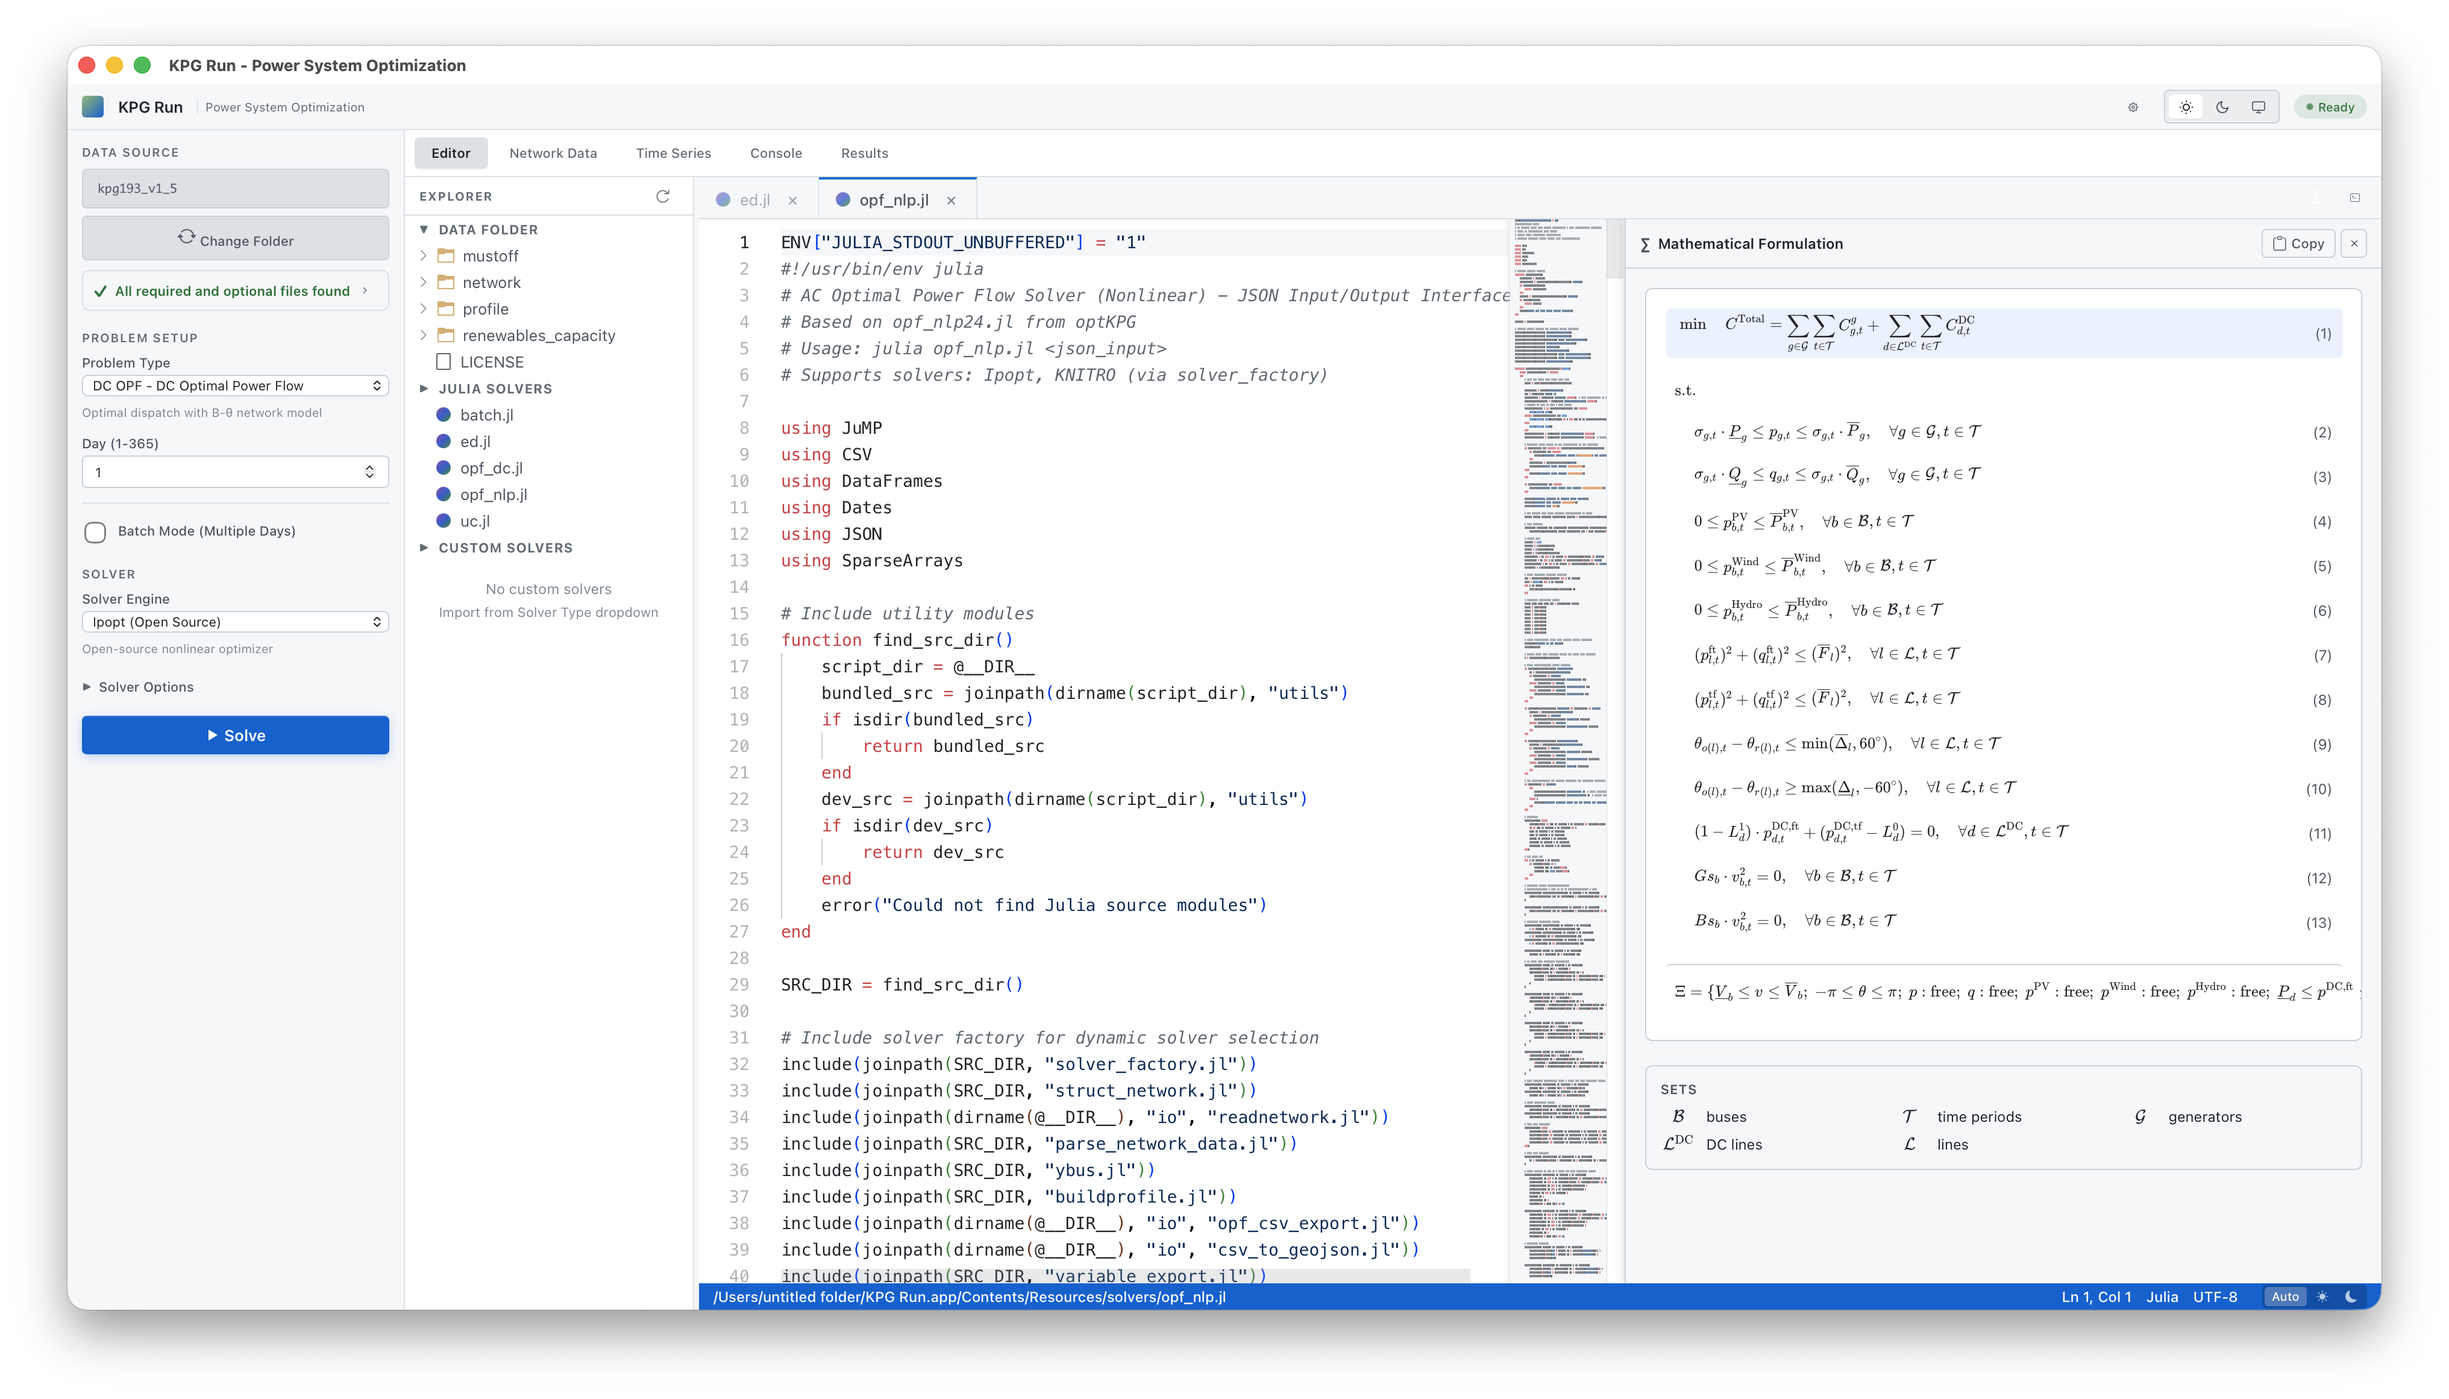
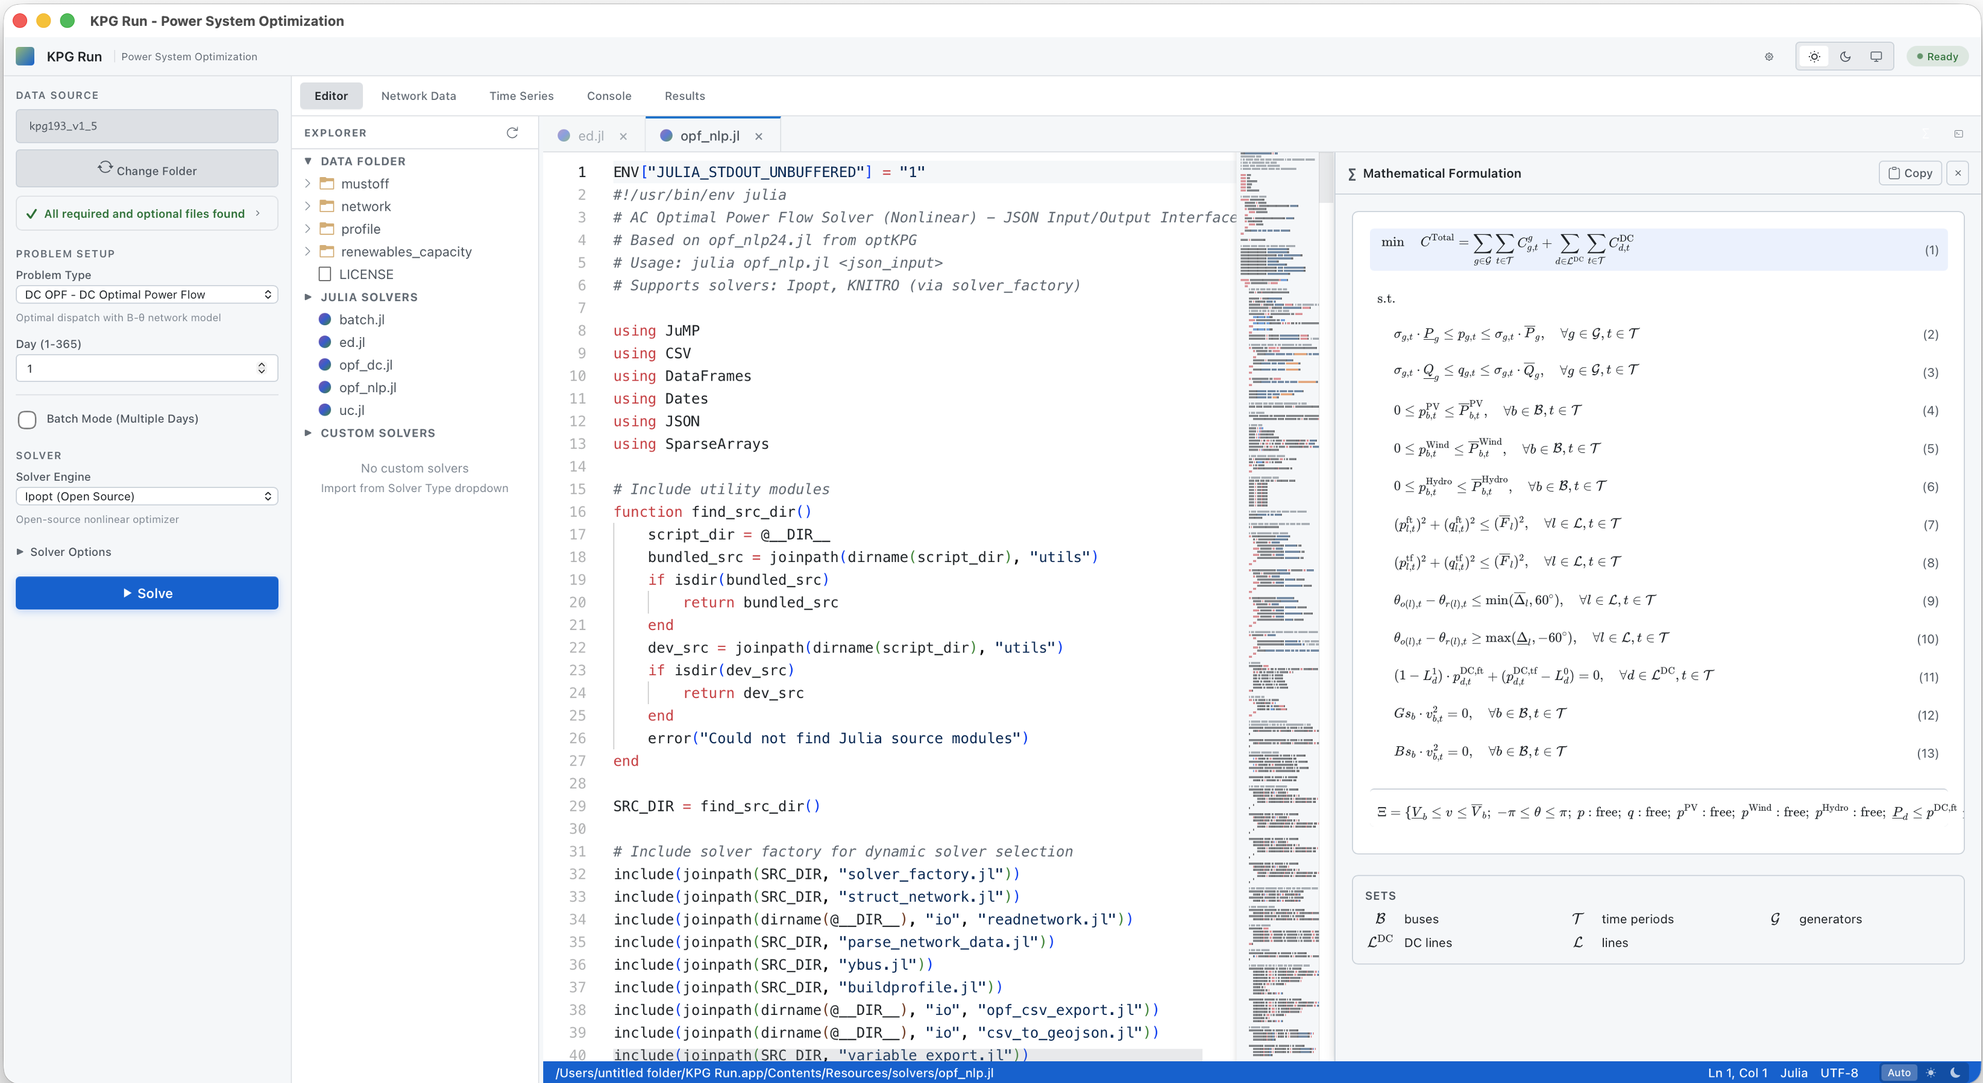
Deploy: Update KPG Run and KPG View app screenshots
- Update KPG Run application screenshot
- Update KPG View application screenshot agm-center/agm-docs-source@26ca7a668a14ac3dddff2568871409d80a2e79a8

diff --git a/learning/open-ego-101/index.html b/learning/open-ego-101/index.html
@@ -27,7 +27,7 @@ Documentation
 </a> </div> </div> </nav>  <script type="module">const e=document.getElementById("mobile-menu-btn"),n=document.getElementById("mobile-menu");e?.addEventListener("click",()=>{n?.classList.toggle("hidden")});</script> </div> <main class="max-w-none"> 
 <section class="relative w-full min-h-[600px] md:min-h-[700px] flex items-center justify-center overflow-hidden ">   <div class="absolute inset-0 z-0"> <img src="https://eoimages.gsfc.nasa.gov/images/imagerecords/83000/83182/ISS038-E-038300_lrg.jpg" alt="Korean Power Grid at Night" class="w-full h-full object-cover object-center animate-fade-in"> <!-- Dark overlay for text readability --> <div class="absolute inset-0 bg-black/60"></div> <!-- Image Credit --> <div class="absolute bottom-1 right-2 text-white/40 text-[10px]"> Image: NASA Earth Observatory </div> </div>  <!-- Content --> <div class="relative z-10 w-full max-w-5xl mx-auto px-6 py-24 md:py-32"> <div class="text-left"> <!-- Title --> <h1 class="text-4xl md:text-5xl lg:text-6xl font-bold mb-6 text-white animate-slide-up opacity-0" style="animation-delay: 0.2s; animation-fill-mode: forwards;"> KPG Platform 101 </h1> <!-- Subtitle --> <p class="text-lg md:text-xl text-white/95 max-w-3xl  leading-relaxed mb-8 animate-slide-up opacity-0" style="animation-delay: 0.4s; animation-fill-mode: forwards;"> Getting started with the KPG Platform framework for power system optimization, installation, and basic workflows. </p> <!-- CTA Button (only shown in background mode) --> <div class="mt-8 animate-slide-up opacity-0" style="animation-delay: 0.6s; animation-fill-mode: forwards;"> <a href="/learning" class="inline-block bg-brand-primary hover:bg-brand-primary-dark text-white font-semibold px-8 py-3.5 rounded shadow-lg hover:shadow-xl hover:scale-105 transition-all duration-300 ease-out"> Back to Learning Hub </a> </div> </div> </div> </section>
 
-<section class="bg-white py-12 px-6"><div class="max-w-5xl mx-auto"><div class="mb-8"><div class="pdf-viewer astro-5wsafjel" data-viewer="pdf-mwthlsq24" data-total-pages="18"> <!-- Compact Header --> <div class="pdf-header astro-5wsafjel"> <button class="nav-btn prev-btn astro-5wsafjel" title="Previous slide (←)" data-action="prev"> <svg width="14" height="14" viewBox="0 0 24 24" fill="none" stroke="currentColor" stroke-width="2.5" stroke-linecap="round" stroke-linejoin="round" class="astro-5wsafjel"> <polyline points="15 18 9 12 15 6" class="astro-5wsafjel"></polyline> </svg> </button> <span class="page-info astro-5wsafjel"> <span class="current-page astro-5wsafjel">1</span> / 18 </span> <button class="nav-btn next-btn astro-5wsafjel" title="Next slide (→)" data-action="next"> <svg width="14" height="14" viewBox="0 0 24 24" fill="none" stroke="currentColor" stroke-width="2.5" stroke-linecap="round" stroke-linejoin="round" class="astro-5wsafjel"> <polyline points="9 18 15 12 9 6" class="astro-5wsafjel"></polyline> </svg> </button> <div class="spacer astro-5wsafjel"></div> <a href="/slides/2025-10-30_AGM Center (Jip Kim).pdf" download class="icon-btn astro-5wsafjel" title="Download"> <svg width="16" height="16" viewBox="0 0 24 24" fill="none" stroke="currentColor" stroke-width="2" stroke-linecap="round" stroke-linejoin="round" class="astro-5wsafjel"> <path d="M21 15v4a2 2 0 0 1-2 2H5a2 2 0 0 1-2-2v-4" class="astro-5wsafjel"></path> <polyline points="7 10 12 15 17 10" class="astro-5wsafjel"></polyline> <line x1="12" y1="15" x2="12" y2="3" class="astro-5wsafjel"></line> </svg> </a> <a href="/slides/2025-10-30_AGM Center (Jip Kim).pdf" target="_blank" class="icon-btn astro-5wsafjel" title="Full screen"> <svg width="16" height="16" viewBox="0 0 24 24" fill="none" stroke="currentColor" stroke-width="2" stroke-linecap="round" stroke-linejoin="round" class="astro-5wsafjel"> <path d="M8 3H5a2 2 0 0 0-2 2v3m18 0V5a2 2 0 0 0-2-2h-3m0 18h3a2 2 0 0 0 2-2v-3M3 16v3a2 2 0 0 0 2 2h3" class="astro-5wsafjel"></path> </svg> </a> </div> <!-- PDF Container --> <div class="pdf-container astro-5wsafjel" style="height: 700px"> <iframe src="/slides/2025-10-30_AGM Center (Jip Kim).pdf#page=1&#38;pagemode=none&#38;view=Fit" title="KPG Platform 101 Tutorial Slides" class="pdf-frame astro-5wsafjel" loading="lazy" data-src="/slides/2025-10-30_AGM Center (Jip Kim).pdf"></iframe> </div> </div>  <script type="module">document.querySelectorAll("[data-viewer]").forEach(n=>{const a=n.querySelector(".pdf-frame"),c=n.querySelector(".prev-btn"),o=n.querySelector(".next-btn"),i=n.querySelector(".current-page"),p=a.getAttribute("data-src")||"",s=parseInt(n.getAttribute("data-total-pages")||"1");let t=1;const l=new URLSearchParams(a.src.split("#")[1]);l.has("page")&&(t=parseInt(l.get("page")||"1"));function r(e){if(e==="prev"&&t>1)t--;else if(e==="next"&&t<s)t++;else return;const g=p;a.src=`${g}#page=${t}&pagemode=none&view=Fit`,d()}function d(){i.textContent=t.toString(),c&&(c.disabled=t<=1),o&&(o.disabled=t>=s)}c?.addEventListener("click",()=>r("prev")),o?.addEventListener("click",()=>r("next"));const u=e=>{document.activeElement?.tagName==="INPUT"||document.activeElement?.tagName==="TEXTAREA"||(e.key==="ArrowLeft"||e.key==="ArrowUp"||e.key==="PageUp"?(e.preventDefault(),r("prev")):(e.key==="ArrowRight"||e.key==="ArrowDown"||e.key==="PageDown")&&(e.preventDefault(),r("next")))};document.addEventListener("keydown",u),d()});</script></div><div class="bg-purple-50 border border-purple-200 rounded-lg p-4 mb-8"><div class="flex items-start gap-3"><svg class="w-5 h-5 text-purple-600 mt-0.5 flex-shrink-0" fill="none" stroke="currentColor" viewBox="0 0 24 24"><path stroke-linecap="round" stroke-linejoin="round" stroke-width="2" d="M15 10l4.553-2.276A1 1 0 0121 8.618v6.764a1 1 0 01-1.447.894L15 14M5 18h8a2 2 0 002-2V8a2 2 0 00-2-2H5a2 2 0 00-2 2v8a2 2 0 002 2z"></path></svg><div><p class="text-sm text-purple-900 font-medium mb-1">Video Tutorial (Optional)</p><p class="text-sm text-purple-700"><p>For additional context, a video walkthrough of these slides is available. The presentation slides above contain all essential information.</p></p></div></div></div><div class="flex flex-wrap gap-2 mb-6"><span class="px-3 py-1 bg-neutral-silver text-neutral-darkGrey text-sm rounded">#tutorial</span><span class="px-3 py-1 bg-neutral-silver text-neutral-darkGrey text-sm rounded">#KPG Platform</span><span class="px-3 py-1 bg-neutral-silver text-neutral-darkGrey text-sm rounded">#tools</span><span class="px-3 py-1 bg-neutral-silver text-neutral-darkGrey text-sm rounded">#optimization</span></div><div class="prose prose-lg max-w-none mb-12"><h2 class="text-2xl font-bold text-neutral-black mb-4">What You’ll Learn</h2><ul class="text-neutral-darkGrey space-y-2"><li>Introduction to the KPG Platform framework and architecture</li><li>Step-by-step installation and environment setup</li><li>Basic usage patterns and command-line interface</li><li>Running your first optimization example</li><li>Understanding input data formats and output results</li><li>Common workflows for power system analysis</li></ul></div><div class="mb-8"><h3 class="text-xl font-semibold text-neutral-black mb-4">Key Features</h3><div class="grid grid-cols-1 md:grid-cols-2 gap-4"><div class="p-4 bg-neutral-silver rounded"><h4 class="font-semibold text-neutral-black mb-2">🔧 Modular Design</h4><p class="text-sm text-neutral-darkGrey">Flexible architecture for different optimization problems</p></div><div class="p-4 bg-neutral-silver rounded"><h4 class="font-semibold text-neutral-black mb-2">⚡ High Performance</h4><p class="text-sm text-neutral-darkGrey">Optimized for large-scale power system analysis</p></div><div class="p-4 bg-neutral-silver rounded"><h4 class="font-semibold text-neutral-black mb-2">📊 Rich Visualization</h4><p class="text-sm text-neutral-darkGrey">Built-in tools for results visualization</p></div><div class="p-4 bg-neutral-silver rounded"><h4 class="font-semibold text-neutral-black mb-2">🔄 Open Source</h4><p class="text-sm text-neutral-darkGrey">Community-driven development and support</p></div></div></div><div class="bg-neutral-silver p-6 rounded-lg mb-8"><h3 class="text-xl font-semibold text-neutral-black mb-4">Downloadable Resources</h3><div class="space-y-3"><p class="text-neutral-grey italic">Resources will be available soon.</p></div></div><div class="border-t border-neutral-border pt-8"><h3 class="text-xl font-semibold text-neutral-black mb-4">Related Documentation</h3><div class="grid grid-cols-1 md:grid-cols-2 gap-4"><a href="/documentation/installation" class="block p-4 border border-neutral-border rounded hover:border-brand-primary hover:bg-neutral-silver transition-all no-underline"><h4 class="font-semibold text-neutral-black mb-2">Installation Guide</h4><p class="text-sm text-neutral-grey">Detailed setup instructions for all platforms</p></a><a href="/documentation/introduction" class="block p-4 border border-neutral-border rounded hover:border-brand-primary hover:bg-neutral-silver transition-all no-underline"><h4 class="font-semibold text-neutral-black mb-2">Framework Overview</h4><p class="text-sm text-neutral-grey">Architecture and design principles</p></a></div></div></div></section>
+<section class="bg-white py-12 px-6"><div class="max-w-5xl mx-auto"><div class="mb-8"><div class="pdf-viewer astro-5wsafjel" data-viewer="pdf-jbkl0ju1i" data-total-pages="18"> <!-- Compact Header --> <div class="pdf-header astro-5wsafjel"> <button class="nav-btn prev-btn astro-5wsafjel" title="Previous slide (←)" data-action="prev"> <svg width="14" height="14" viewBox="0 0 24 24" fill="none" stroke="currentColor" stroke-width="2.5" stroke-linecap="round" stroke-linejoin="round" class="astro-5wsafjel"> <polyline points="15 18 9 12 15 6" class="astro-5wsafjel"></polyline> </svg> </button> <span class="page-info astro-5wsafjel"> <span class="current-page astro-5wsafjel">1</span> / 18 </span> <button class="nav-btn next-btn astro-5wsafjel" title="Next slide (→)" data-action="next"> <svg width="14" height="14" viewBox="0 0 24 24" fill="none" stroke="currentColor" stroke-width="2.5" stroke-linecap="round" stroke-linejoin="round" class="astro-5wsafjel"> <polyline points="9 18 15 12 9 6" class="astro-5wsafjel"></polyline> </svg> </button> <div class="spacer astro-5wsafjel"></div> <a href="/slides/2025-10-30_AGM Center (Jip Kim).pdf" download class="icon-btn astro-5wsafjel" title="Download"> <svg width="16" height="16" viewBox="0 0 24 24" fill="none" stroke="currentColor" stroke-width="2" stroke-linecap="round" stroke-linejoin="round" class="astro-5wsafjel"> <path d="M21 15v4a2 2 0 0 1-2 2H5a2 2 0 0 1-2-2v-4" class="astro-5wsafjel"></path> <polyline points="7 10 12 15 17 10" class="astro-5wsafjel"></polyline> <line x1="12" y1="15" x2="12" y2="3" class="astro-5wsafjel"></line> </svg> </a> <a href="/slides/2025-10-30_AGM Center (Jip Kim).pdf" target="_blank" class="icon-btn astro-5wsafjel" title="Full screen"> <svg width="16" height="16" viewBox="0 0 24 24" fill="none" stroke="currentColor" stroke-width="2" stroke-linecap="round" stroke-linejoin="round" class="astro-5wsafjel"> <path d="M8 3H5a2 2 0 0 0-2 2v3m18 0V5a2 2 0 0 0-2-2h-3m0 18h3a2 2 0 0 0 2-2v-3M3 16v3a2 2 0 0 0 2 2h3" class="astro-5wsafjel"></path> </svg> </a> </div> <!-- PDF Container --> <div class="pdf-container astro-5wsafjel" style="height: 700px"> <iframe src="/slides/2025-10-30_AGM Center (Jip Kim).pdf#page=1&#38;pagemode=none&#38;view=Fit" title="KPG Platform 101 Tutorial Slides" class="pdf-frame astro-5wsafjel" loading="lazy" data-src="/slides/2025-10-30_AGM Center (Jip Kim).pdf"></iframe> </div> </div>  <script type="module">document.querySelectorAll("[data-viewer]").forEach(n=>{const a=n.querySelector(".pdf-frame"),c=n.querySelector(".prev-btn"),o=n.querySelector(".next-btn"),i=n.querySelector(".current-page"),p=a.getAttribute("data-src")||"",s=parseInt(n.getAttribute("data-total-pages")||"1");let t=1;const l=new URLSearchParams(a.src.split("#")[1]);l.has("page")&&(t=parseInt(l.get("page")||"1"));function r(e){if(e==="prev"&&t>1)t--;else if(e==="next"&&t<s)t++;else return;const g=p;a.src=`${g}#page=${t}&pagemode=none&view=Fit`,d()}function d(){i.textContent=t.toString(),c&&(c.disabled=t<=1),o&&(o.disabled=t>=s)}c?.addEventListener("click",()=>r("prev")),o?.addEventListener("click",()=>r("next"));const u=e=>{document.activeElement?.tagName==="INPUT"||document.activeElement?.tagName==="TEXTAREA"||(e.key==="ArrowLeft"||e.key==="ArrowUp"||e.key==="PageUp"?(e.preventDefault(),r("prev")):(e.key==="ArrowRight"||e.key==="ArrowDown"||e.key==="PageDown")&&(e.preventDefault(),r("next")))};document.addEventListener("keydown",u),d()});</script></div><div class="bg-purple-50 border border-purple-200 rounded-lg p-4 mb-8"><div class="flex items-start gap-3"><svg class="w-5 h-5 text-purple-600 mt-0.5 flex-shrink-0" fill="none" stroke="currentColor" viewBox="0 0 24 24"><path stroke-linecap="round" stroke-linejoin="round" stroke-width="2" d="M15 10l4.553-2.276A1 1 0 0121 8.618v6.764a1 1 0 01-1.447.894L15 14M5 18h8a2 2 0 002-2V8a2 2 0 00-2-2H5a2 2 0 00-2 2v8a2 2 0 002 2z"></path></svg><div><p class="text-sm text-purple-900 font-medium mb-1">Video Tutorial (Optional)</p><p class="text-sm text-purple-700"><p>For additional context, a video walkthrough of these slides is available. The presentation slides above contain all essential information.</p></p></div></div></div><div class="flex flex-wrap gap-2 mb-6"><span class="px-3 py-1 bg-neutral-silver text-neutral-darkGrey text-sm rounded">#tutorial</span><span class="px-3 py-1 bg-neutral-silver text-neutral-darkGrey text-sm rounded">#KPG Platform</span><span class="px-3 py-1 bg-neutral-silver text-neutral-darkGrey text-sm rounded">#tools</span><span class="px-3 py-1 bg-neutral-silver text-neutral-darkGrey text-sm rounded">#optimization</span></div><div class="prose prose-lg max-w-none mb-12"><h2 class="text-2xl font-bold text-neutral-black mb-4">What You’ll Learn</h2><ul class="text-neutral-darkGrey space-y-2"><li>Introduction to the KPG Platform framework and architecture</li><li>Step-by-step installation and environment setup</li><li>Basic usage patterns and command-line interface</li><li>Running your first optimization example</li><li>Understanding input data formats and output results</li><li>Common workflows for power system analysis</li></ul></div><div class="mb-8"><h3 class="text-xl font-semibold text-neutral-black mb-4">Key Features</h3><div class="grid grid-cols-1 md:grid-cols-2 gap-4"><div class="p-4 bg-neutral-silver rounded"><h4 class="font-semibold text-neutral-black mb-2">🔧 Modular Design</h4><p class="text-sm text-neutral-darkGrey">Flexible architecture for different optimization problems</p></div><div class="p-4 bg-neutral-silver rounded"><h4 class="font-semibold text-neutral-black mb-2">⚡ High Performance</h4><p class="text-sm text-neutral-darkGrey">Optimized for large-scale power system analysis</p></div><div class="p-4 bg-neutral-silver rounded"><h4 class="font-semibold text-neutral-black mb-2">📊 Rich Visualization</h4><p class="text-sm text-neutral-darkGrey">Built-in tools for results visualization</p></div><div class="p-4 bg-neutral-silver rounded"><h4 class="font-semibold text-neutral-black mb-2">🔄 Open Source</h4><p class="text-sm text-neutral-darkGrey">Community-driven development and support</p></div></div></div><div class="bg-neutral-silver p-6 rounded-lg mb-8"><h3 class="text-xl font-semibold text-neutral-black mb-4">Downloadable Resources</h3><div class="space-y-3"><p class="text-neutral-grey italic">Resources will be available soon.</p></div></div><div class="border-t border-neutral-border pt-8"><h3 class="text-xl font-semibold text-neutral-black mb-4">Related Documentation</h3><div class="grid grid-cols-1 md:grid-cols-2 gap-4"><a href="/documentation/installation" class="block p-4 border border-neutral-border rounded hover:border-brand-primary hover:bg-neutral-silver transition-all no-underline"><h4 class="font-semibold text-neutral-black mb-2">Installation Guide</h4><p class="text-sm text-neutral-grey">Detailed setup instructions for all platforms</p></a><a href="/documentation/introduction" class="block p-4 border border-neutral-border rounded hover:border-brand-primary hover:bg-neutral-silver transition-all no-underline"><h4 class="font-semibold text-neutral-black mb-2">Framework Overview</h4><p class="text-sm text-neutral-grey">Architecture and design principles</p></a></div></div></div></section>
 
 <section class="bg-neutral-silver py-12 px-6"><div class="max-w-5xl mx-auto"><div class="flex justify-between items-center"><a href="/learning/electricity-market-101" class="flex items-center gap-2 text-neutral-darkGrey hover:text-brand-primary no-underline"><svg class="w-5 h-5" fill="none" stroke="currentColor" viewBox="0 0 24 24"><path stroke-linecap="round" stroke-linejoin="round" stroke-width="2" d="M15 19l-7-7 7-7"></path></svg><span>Previous: Electricity Market 101</span></a><a href="/learning/runkpg-demo" class="flex items-center gap-2 text-brand-primary hover:text-brand-primary-dark no-underline font-medium"><span>Next: RunKPG.jl Demo</span><svg class="w-5 h-5" fill="none" stroke="currentColor" viewBox="0 0 24 24"><path stroke-linecap="round" stroke-linejoin="round" stroke-width="2" d="M9 5l7 7-7 7"></path></svg></a></div></div></section> </main> <footer class="bg-neutral-footer text-white py-16 px-6"> <div class="max-w-7xl mx-auto"> <div class="grid grid-cols-1 md:grid-cols-2 lg:grid-cols-4 gap-12 mb-12">  <div> <h3 class="text-xl font-semibold mb-4">AGM Center</h3> <p class="text-white/70 text-sm leading-relaxed">
 Advancing power systems for a sustainable future through research, tools, and collaboration.
